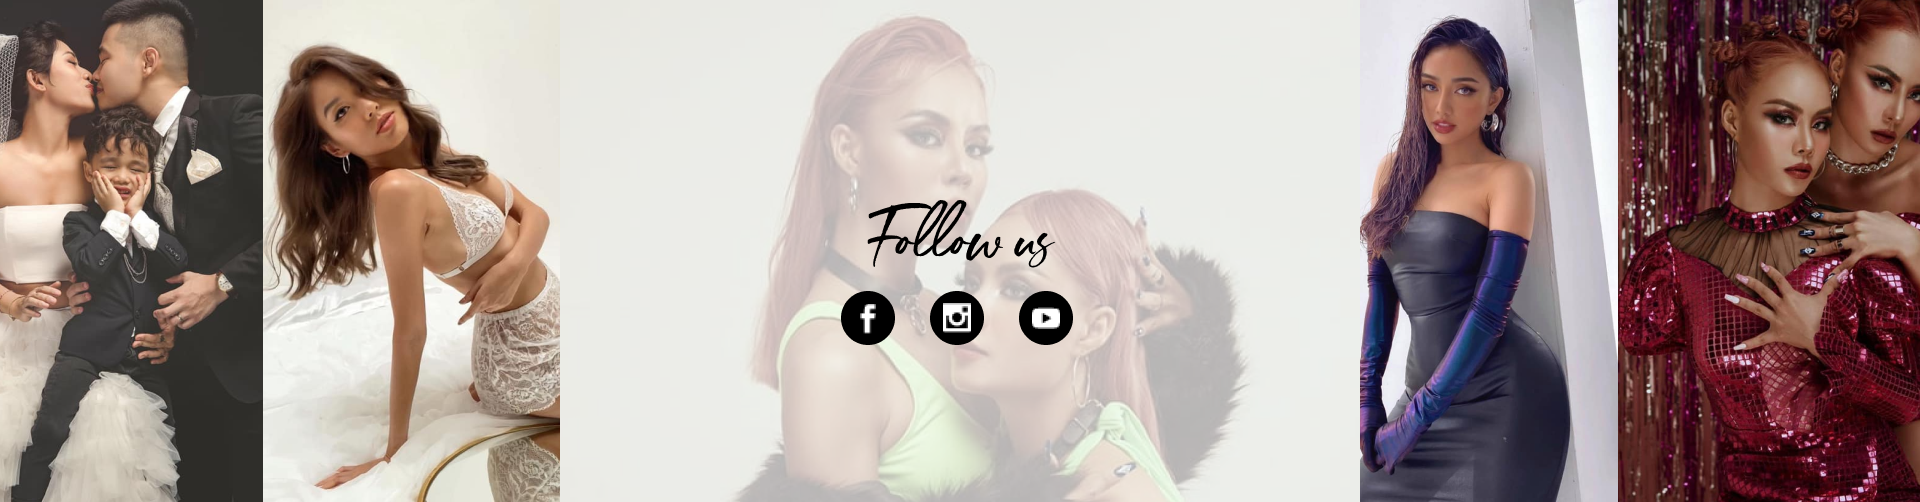
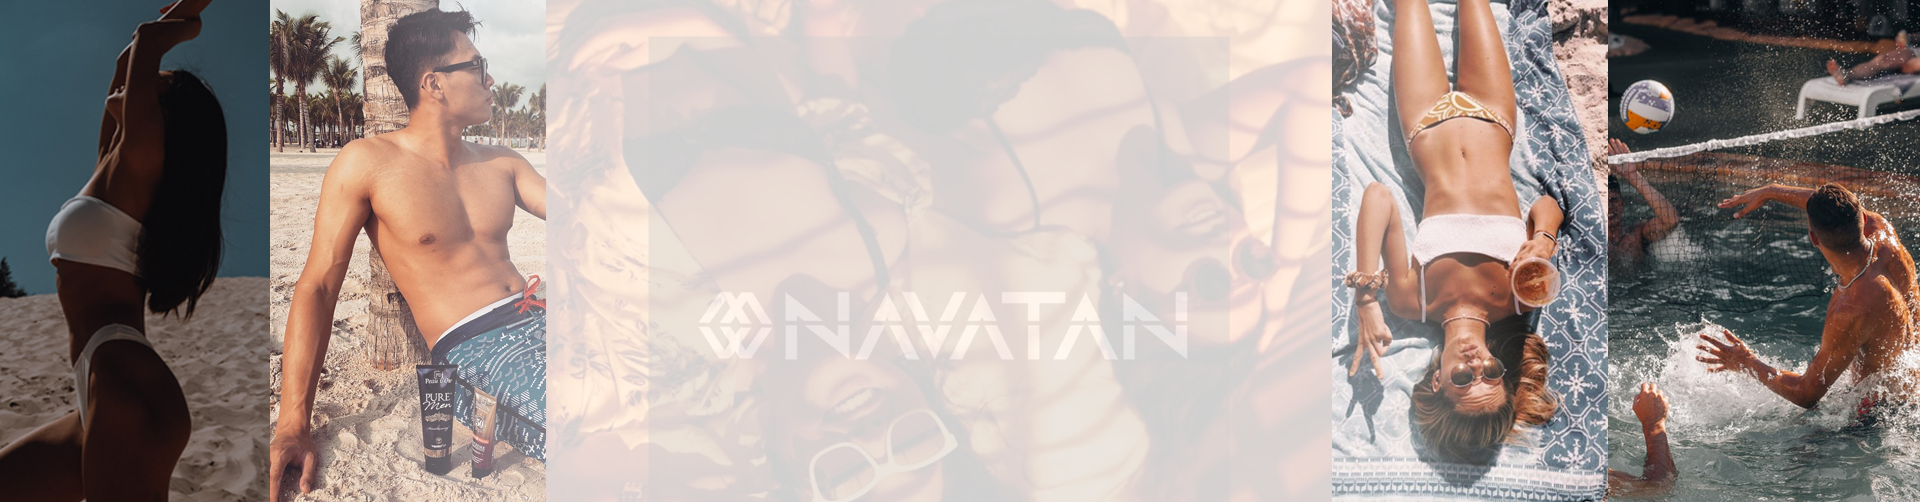
footer

diff --git a/src/components/Home/socials.vue b/src/components/Home/socials.vue
@@ -1,19 +1,60 @@
 <template>
   <div class="root">
-    <img src="@/assets/home/socials.png" alt="socials" />
+    <v-img src="@/assets/home/socials.png" alt="socials">
+      <div class="text-center">
+        <p class="social">Follow us</p>
+        <v-btn class="ma-2" text icon color="black" @click="facebookHandle">
+          <v-icon>mdi-facebook</v-icon>
+        </v-btn>
+        <v-btn class="ma-2" text icon color="black" @click="instaHandle">
+          <v-icon>mdi-instagram</v-icon>
+        </v-btn>
+        <v-btn class="ma-2" text icon color="black" @click="youtubeHandle">
+          <v-icon>mdi-youtube</v-icon>
+        </v-btn>
+      </div>
+    </v-img>
+    <div class="text">HAHA</div>
   </div>
 </template>
 
 <script>
-export default { name: "home-socials" };
+export default {
+  name: "home-socials",
+  methods: {
+    facebookHandle() {
+      window.open("https://www.facebook.com/navatan.studio", "_blank");
+    },
+    instaHandle() {
+      window.open("https://www.instagram.com/navatan.studio", "_blank");
+    },
+    youtubeHandle() {
+      window.open("https://youtube.com", "_blank");
+    },
+  },
+};
 </script>
 <style lang="scss" scoped>
 .root {
+  .socialShare {
+    background-color: transparent;
+  }
+
   img {
     width: 100%;
     object-fit: contain;
     object-position: center;
     display: block;
   }
+}
+
+.social {
+  font-family: "Dancing Script";
+  font-size: 252%;
+  margin-bottom: -1%;
+}
+
+.text-center {
+  margin: 8%;
 }
 </style>
